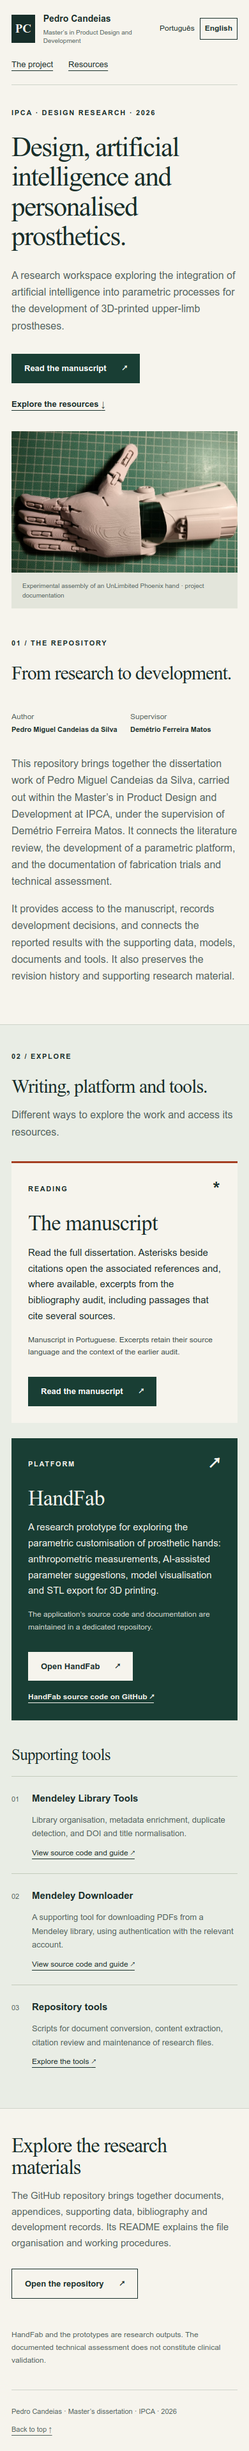
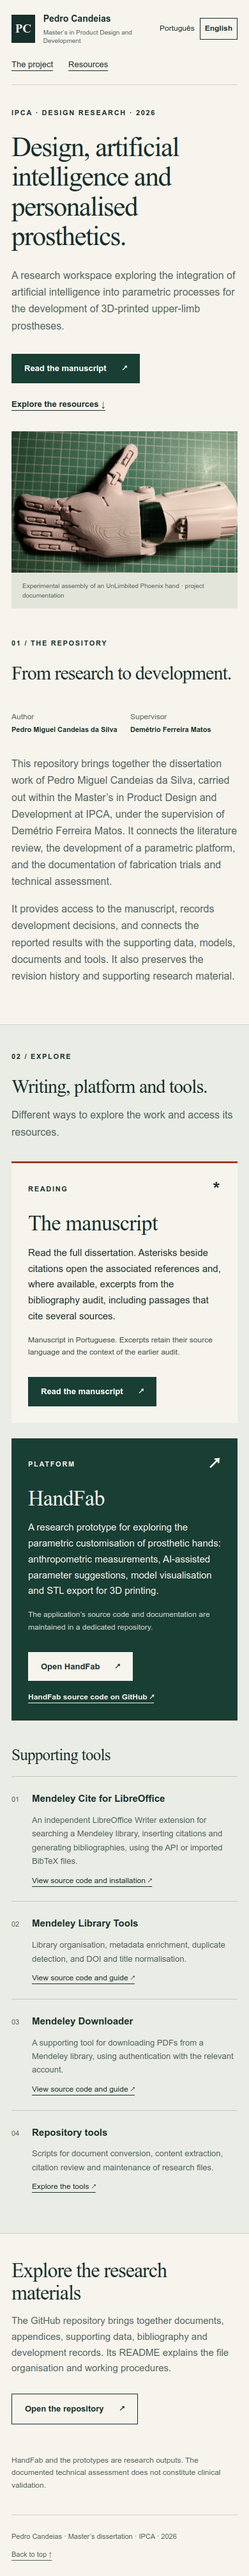
Add LibreOffice Mendeley extension to homepage tools

Changed region(s): [[0.0308, 0.0, 0.9538, 0.994], [0.8615, 0.4349, 0.8923, 0.497], [0.8308, 0.0, 0.8615, 0.0311]]

diff --git a/docs/capitulos/html/manuscrito_citacoes/publicacao/dist/index.html b/docs/capitulos/html/manuscrito_citacoes/publicacao/dist/index.html
@@ -28,7 +28,7 @@
 <section class="resources" id="resources"><div class="wrap"><p class="eyebrow">02 / EXPLORAR</p><h2>Texto, plataforma e ferramentas.</h2><p class="section-intro">Diferentes pontos de entrada para conhecer o trabalho e consultar os seus recursos.</p>
 <div class="features"><article class="feature manuscript"><p class="eyebrow">LEITURA <span aria-hidden="true">*</span></p><h3>O manuscrito</h3><p>Leia o texto integral da dissertação. Os asteriscos junto das citações abrem as referências associadas e, quando disponíveis, os excertos da auditoria bibliográfica, incluindo passagens com várias fontes.</p><p class="note">Texto em português. Os excertos conservam a língua da fonte e o contexto da auditoria anterior.</p><a class="button" href="manuscrito.html">Ler o manuscrito <span aria-hidden="true">↗</span></a></article>
 <article class="feature handfab"><p class="eyebrow">PLATAFORMA <span aria-hidden="true">↗</span></p><h3>HandFab</h3><p>Protótipo de investigação para explorar a personalização paramétrica de mãos protésicas: introdução de medidas antropométricas, sugestões de parâmetros assistidas por IA, visualização dos modelos e exportação STL para impressão 3D.</p><p class="note">O código e a documentação da aplicação encontram-se num repositório próprio.</p><div class="actions"><a class="button" href="https://handfab.pedrocandeias.net/">Abrir o HandFab <span aria-hidden="true">↗</span></a><a class="text-link" href="https://github.com/pedrocandeias/ai-parametric-prosthetic-hand-generator">Código do HandFab no GitHub <span aria-hidden="true">↗</span></a></div></article></div>
-<h3 class="tools-heading">Ferramentas de apoio</h3><div class="tool-list"><article class="tool-row"><span class="tool-number" aria-hidden="true">01</span><h4>Mendeley Library Tools</h4><p>Organização da biblioteca, enriquecimento de metadados, deteção de duplicados e normalização de DOI e títulos.</p><a href="https://github.com/pedrocandeias/mendeley-tools">Consultar código e guia <span aria-hidden="true">↗</span></a></article><article class="tool-row"><span class="tool-number" aria-hidden="true">02</span><h4>Mendeley Downloader</h4><p>Ferramenta auxiliar para descarregar os PDFs de uma biblioteca Mendeley, mediante autenticação na respetiva conta.</p><a href="https://github.com/pedrocandeias/mendeley-downloader">Consultar código e guia <span aria-hidden="true">↗</span></a></article><article class="tool-row"><span class="tool-number" aria-hidden="true">03</span><h4>Ferramentas do repositório</h4><p>Scripts de conversão de documentos, extração de conteúdo, revisão de citações e manutenção dos ficheiros de investigação.</p><a href="https://github.com/pedrocandeias/IPCA-MDDP-2026-PEC/tree/main/tools">Explorar as ferramentas <span aria-hidden="true">↗</span></a></article></div>
+<h3 class="tools-heading">Ferramentas de apoio</h3><div class="tool-list"><article class="tool-row"><span class="tool-number" aria-hidden="true">01</span><h4>Mendeley Cite for LibreOffice</h4><p>Extensão independente para o LibreOffice Writer: pesquisa na biblioteca Mendeley, inserção de citações e geração de bibliografias, com ligação por API ou importação de ficheiros BibTeX.</p><a href="https://github.com/pedrocandeias/mendeley-libreoffice">Consultar código e instalação <span aria-hidden="true">↗</span></a></article><article class="tool-row"><span class="tool-number" aria-hidden="true">02</span><h4>Mendeley Library Tools</h4><p>Organização da biblioteca, enriquecimento de metadados, deteção de duplicados e normalização de DOI e títulos.</p><a href="https://github.com/pedrocandeias/mendeley-tools">Consultar código e guia <span aria-hidden="true">↗</span></a></article><article class="tool-row"><span class="tool-number" aria-hidden="true">03</span><h4>Mendeley Downloader</h4><p>Ferramenta auxiliar para descarregar os PDFs de uma biblioteca Mendeley, mediante autenticação na respetiva conta.</p><a href="https://github.com/pedrocandeias/mendeley-downloader">Consultar código e guia <span aria-hidden="true">↗</span></a></article><article class="tool-row"><span class="tool-number" aria-hidden="true">04</span><h4>Ferramentas do repositório</h4><p>Scripts de conversão de documentos, extração de conteúdo, revisão de citações e manutenção dos ficheiros de investigação.</p><a href="https://github.com/pedrocandeias/IPCA-MDDP-2026-PEC/tree/main/tools">Explorar as ferramentas <span aria-hidden="true">↗</span></a></article></div>
 </div></section>
 <section class="archive wrap"><div><h2>Consultar os materiais de investigação</h2><p>O repositório no GitHub reúne documentos, anexos, dados de apoio, bibliografia e registos de desenvolvimento. O README explica a organização dos ficheiros e os procedimentos de trabalho.</p></div><a class="button secondary" href="https://github.com/pedrocandeias/IPCA-MDDP-2026-PEC">Abrir o repositório <span aria-hidden="true">↗</span></a></section>
 <p class="scope wrap">O HandFab e os protótipos são resultados de investigação. A avaliação técnica documentada não constitui validação clínica.</p>

diff --git a/docs/capitulos/html/manuscrito_citacoes/publicacao/dist/en.html b/docs/capitulos/html/manuscrito_citacoes/publicacao/dist/en.html
@@ -28,7 +28,7 @@
 <section class="resources" id="resources"><div class="wrap"><p class="eyebrow">02 / EXPLORE</p><h2>Writing, platform and tools.</h2><p class="section-intro">Different ways to explore the work and access its resources.</p>
 <div class="features"><article class="feature manuscript"><p class="eyebrow">READING <span aria-hidden="true">*</span></p><h3>The manuscript</h3><p>Read the full dissertation. Asterisks beside citations open the associated references and, where available, excerpts from the bibliography audit, including passages that cite several sources.</p><p class="note">Manuscript in Portuguese. Excerpts retain their source language and the context of the earlier audit.</p><a class="button" href="manuscrito.html">Read the manuscript <span aria-hidden="true">↗</span></a></article>
 <article class="feature handfab"><p class="eyebrow">PLATFORM <span aria-hidden="true">↗</span></p><h3>HandFab</h3><p>A research prototype for exploring the parametric customisation of prosthetic hands: anthropometric measurements, AI-assisted parameter suggestions, model visualisation and STL export for 3D printing.</p><p class="note">The application’s source code and documentation are maintained in a dedicated repository.</p><div class="actions"><a class="button" href="https://handfab.pedrocandeias.net/">Open HandFab <span aria-hidden="true">↗</span></a><a class="text-link" href="https://github.com/pedrocandeias/ai-parametric-prosthetic-hand-generator">HandFab source code on GitHub <span aria-hidden="true">↗</span></a></div></article></div>
-<h3 class="tools-heading">Supporting tools</h3><div class="tool-list"><article class="tool-row"><span class="tool-number" aria-hidden="true">01</span><h4>Mendeley Library Tools</h4><p>Library organisation, metadata enrichment, duplicate detection, and DOI and title normalisation.</p><a href="https://github.com/pedrocandeias/mendeley-tools">View source code and guide <span aria-hidden="true">↗</span></a></article><article class="tool-row"><span class="tool-number" aria-hidden="true">02</span><h4>Mendeley Downloader</h4><p>A supporting tool for downloading PDFs from a Mendeley library, using authentication with the relevant account.</p><a href="https://github.com/pedrocandeias/mendeley-downloader">View source code and guide <span aria-hidden="true">↗</span></a></article><article class="tool-row"><span class="tool-number" aria-hidden="true">03</span><h4>Repository tools</h4><p>Scripts for document conversion, content extraction, citation review and maintenance of research files.</p><a href="https://github.com/pedrocandeias/IPCA-MDDP-2026-PEC/tree/main/tools">Explore the tools <span aria-hidden="true">↗</span></a></article></div>
+<h3 class="tools-heading">Supporting tools</h3><div class="tool-list"><article class="tool-row"><span class="tool-number" aria-hidden="true">01</span><h4>Mendeley Cite for LibreOffice</h4><p>An independent LibreOffice Writer extension for searching a Mendeley library, inserting citations and generating bibliographies, using the API or imported BibTeX files.</p><a href="https://github.com/pedrocandeias/mendeley-libreoffice">View source code and installation <span aria-hidden="true">↗</span></a></article><article class="tool-row"><span class="tool-number" aria-hidden="true">02</span><h4>Mendeley Library Tools</h4><p>Library organisation, metadata enrichment, duplicate detection, and DOI and title normalisation.</p><a href="https://github.com/pedrocandeias/mendeley-tools">View source code and guide <span aria-hidden="true">↗</span></a></article><article class="tool-row"><span class="tool-number" aria-hidden="true">03</span><h4>Mendeley Downloader</h4><p>A supporting tool for downloading PDFs from a Mendeley library, using authentication with the relevant account.</p><a href="https://github.com/pedrocandeias/mendeley-downloader">View source code and guide <span aria-hidden="true">↗</span></a></article><article class="tool-row"><span class="tool-number" aria-hidden="true">04</span><h4>Repository tools</h4><p>Scripts for document conversion, content extraction, citation review and maintenance of research files.</p><a href="https://github.com/pedrocandeias/IPCA-MDDP-2026-PEC/tree/main/tools">Explore the tools <span aria-hidden="true">↗</span></a></article></div>
 </div></section>
 <section class="archive wrap"><div><h2>Explore the research materials</h2><p>The GitHub repository brings together documents, appendices, supporting data, bibliography and development records. Its README explains the file organisation and working procedures.</p></div><a class="button secondary" href="https://github.com/pedrocandeias/IPCA-MDDP-2026-PEC">Open the repository <span aria-hidden="true">↗</span></a></section>
 <p class="scope wrap">HandFab and the prototypes are research outputs. The documented technical assessment does not constitute clinical validation.</p>

diff --git a/CHANGELOG.md b/CHANGELOG.md
@@ -2,6 +2,8 @@
 
 ## 2026-10-10
 
+- Acrescentado Mendeley Cite for LibreOffice às ferramentas da homepage em português e inglês, com descrição da integração no Writer por API/BibTeX e ligação ao repositório e instruções de instalação.
+
 - Integradas na branch principal as alterações desta sessão: arquivo de versões, sincronização do manuscrito 0.4.114, bibliografia de apoio, exportador de citações e fontes da homepage bilingue com lightbox. Conferida a correspondência entre o pacote local e a versão publicada no GitHub Pages.
 
 - Criada página inicial em português e inglês para apresentar o projeto, o repositório e as ferramentas. Incluídas ligações para a plataforma e o código do HandFab, Mendeley Tools e Downloader. Manuscrito interativo transferido para `manuscrito.html`, com regresso à página inicial. Acrescentada lightbox às imagens da apresentação e às 34 figuras do manuscrito, com tamanho original, teclado e adaptação a telemóvel; atualizados gerador e documentação de publicação.

diff --git a/docs/capitulos/html/manuscrito_citacoes/publicacao/README.md b/docs/capitulos/html/manuscrito_citacoes/publicacao/README.md
@@ -4,7 +4,7 @@
 - English: <https://pedrocandeias.github.io/IPCA-MDDP-2026-PEC/en.html>
 - Manuscrito em português: <https://pedrocandeias.github.io/IPCA-MDDP-2026-PEC/manuscrito.html>
 
-A página inicial apresenta a investigação e o repositório, com acesso ao manuscrito, à plataforma HandFab, ao respetivo código no GitHub e às ferramentas bibliográficas e documentais. As duas versões da apresentação são páginas HTML completas, ligadas por um seletor de língua; não dependem de JavaScript para leitura ou navegação.
+A página inicial apresenta a investigação e o repositório, com acesso ao manuscrito, à plataforma HandFab, ao respetivo código no GitHub e às ferramentas bibliográficas e documentais, incluindo a extensão independente [Mendeley Cite for LibreOffice](https://github.com/pedrocandeias/mendeley-libreoffice). As duas versões da apresentação são páginas HTML completas, ligadas por um seletor de língua; não dependem de JavaScript para leitura ou navegação.
 
 ## Fontes e geração
 
